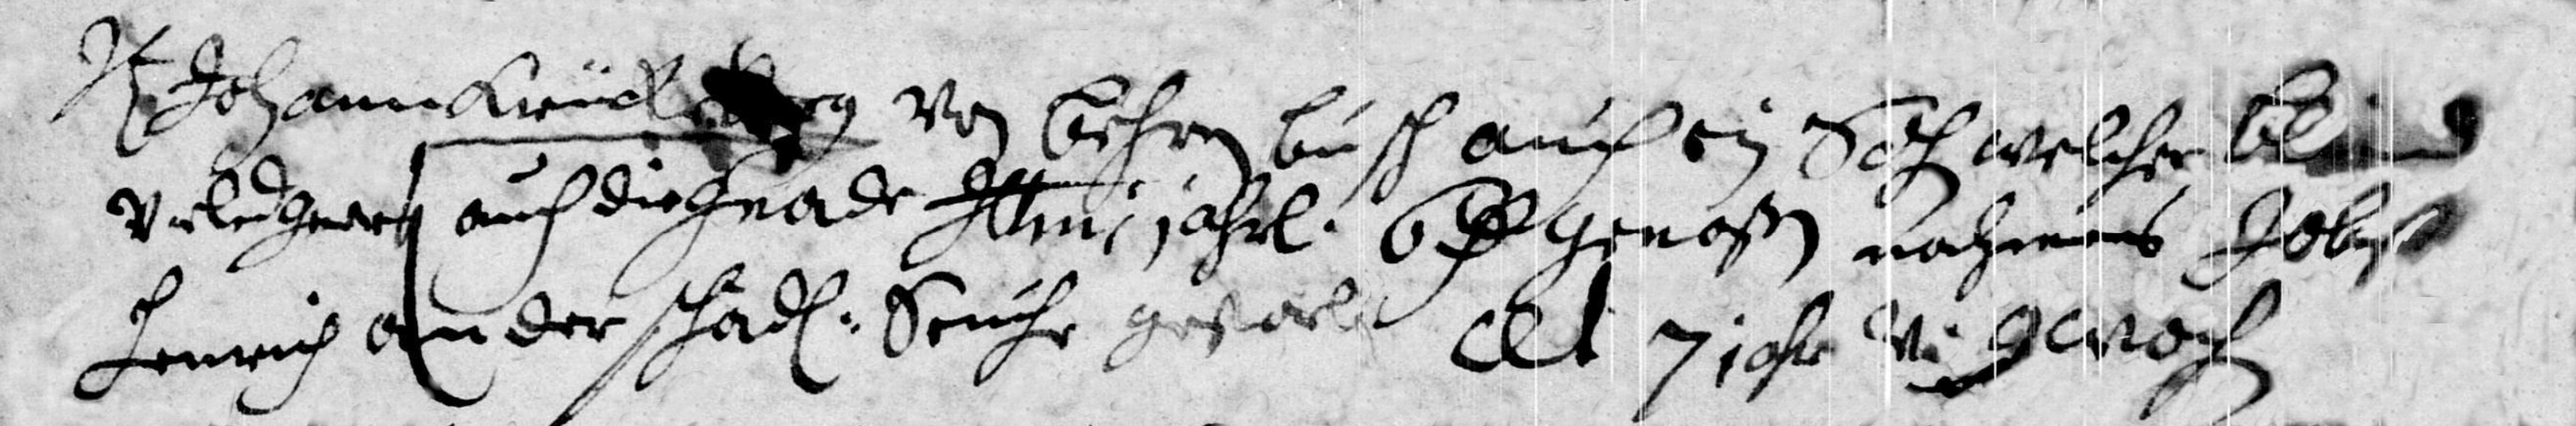
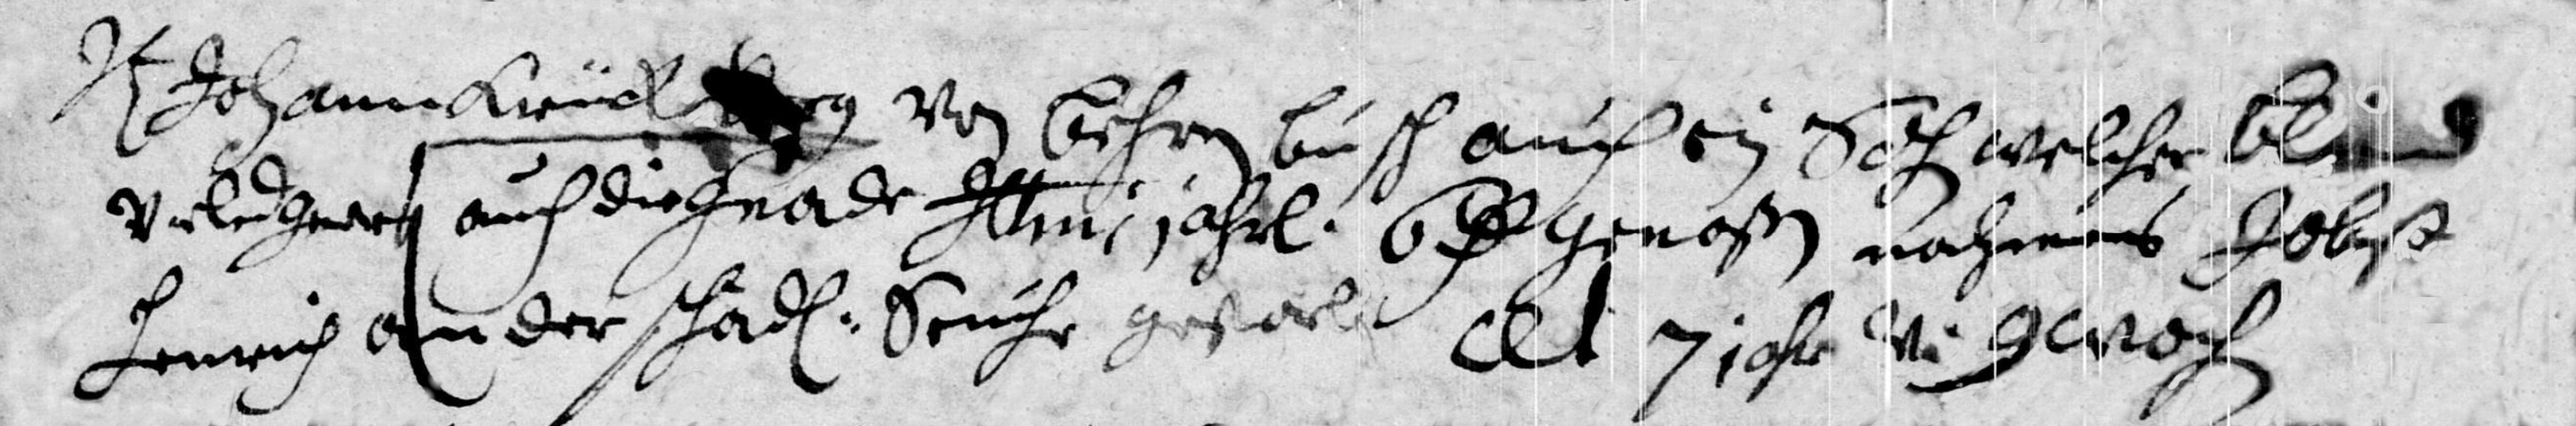
Update files

diff --git a/code/src/MystMD/MarkdownCreator.php b/code/src/MystMD/MarkdownCreator.php
@@ -53,24 +53,27 @@ class MarkdownCreator {
    {
        $year = substr(record['edate'], -4); // get last four characters: the year.
        
-       $this->filename = $this->create_filename($this->prefix, $this->symbol, $year);
+       $record['year'] = $year;
        
-       try {
-           $record['year'] = $year;
+       $record['image_no'] = (string) $record['image_no'];
+       
+       $record['event'] = $this->event;
+       
+       // Since $this->filename has the fully qualified filename, we remove the pathinfo and extension.
+       $basename = basename($this->filename);
+       
+       $record['file_name'] = substr($basename , 0, strpos($basename, "."));
+       
+       $record['volume_name'] = $this->volume_name;
+       
+       $record['total_images'] = $this->total_images;
+
+       if (!isset($record['text'])) {
+	       
+	   $record['text'] = "";    
+       }
            
-           $record['image_no'] = (string) $record['image_no'];
-           
-           $record['event'] = $this->event;
-           
-           // Since $this->filename has the fully qualified filename, we remove the pathinfo and extension.
-           $basename = basename($this->filename);
-           
-           $record['file_name'] = substr($basename , 0, strpos($basename, "."));
-           
-           $record['volume_name'] = $this->volume_name;
-           
-           $record['total_images'] = $this->total_images;
-           
+       try {    
            $markdown = $this->subst_variables($this->markdown_template, $record);           
            
        } catch (\InvalidArgumentException $e) {
@@ -78,6 +81,8 @@ class MarkdownCreator {
            echo $e->getMessage();
            throw $e;
        }
+       
+       $this->filename = $this->create_filename($this->prefix, $this->symbol, $year);
        
        $file = new \SplFileObject($this->filename, "w");
 
